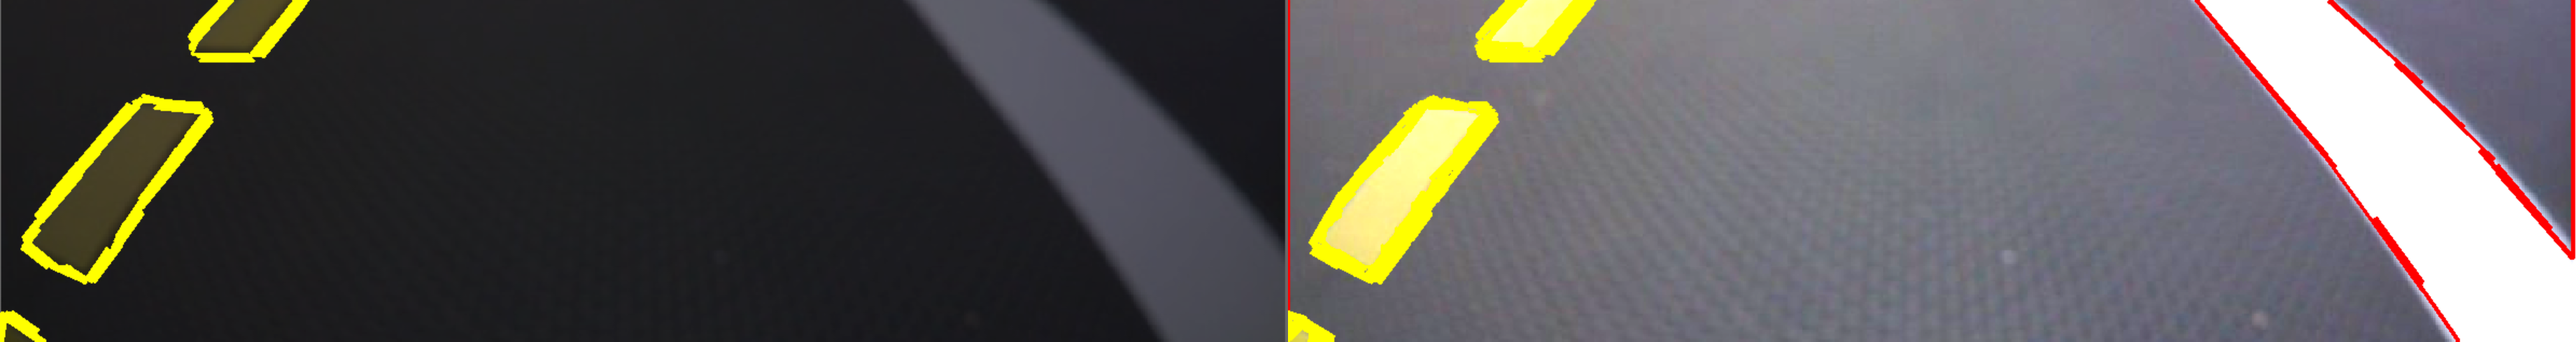
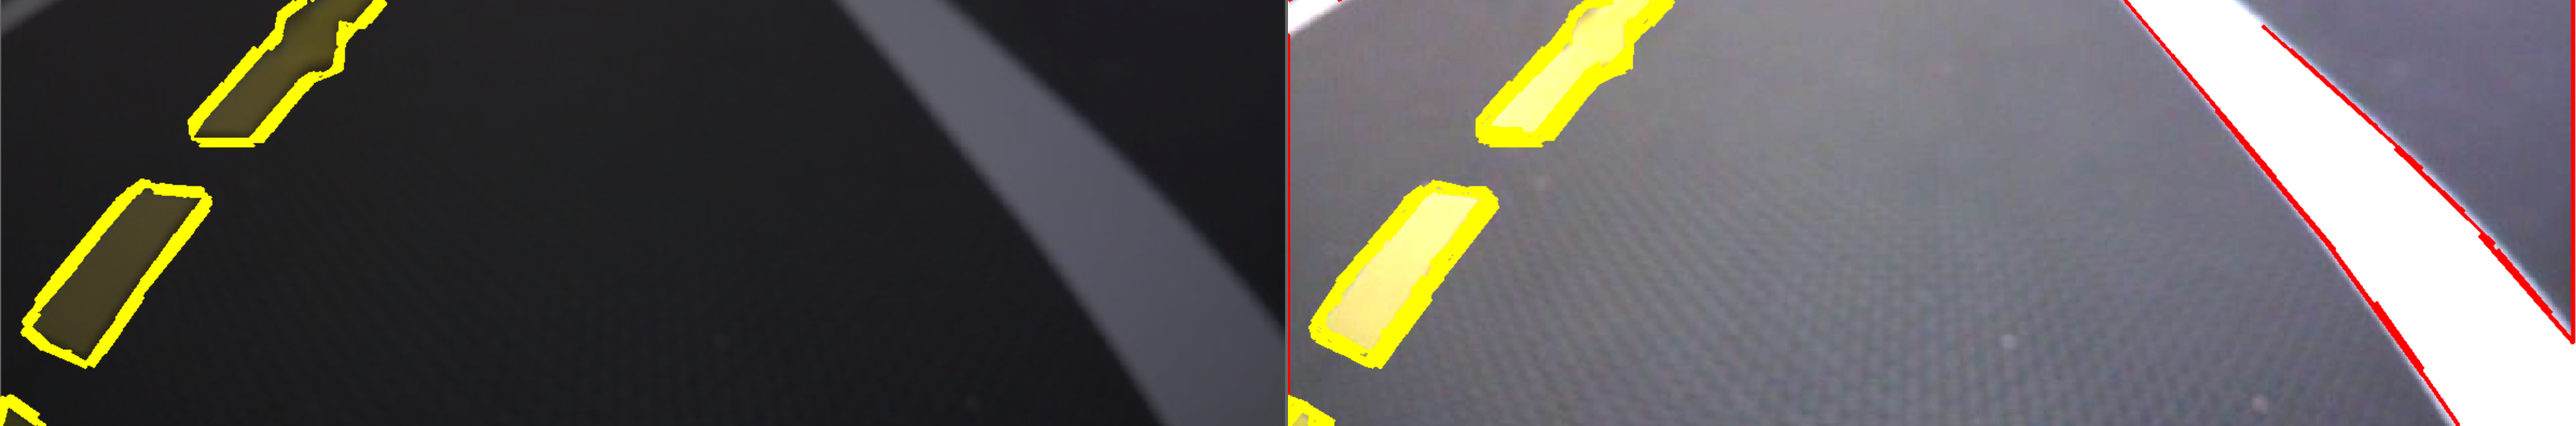
initial commit

diff --git a/packages/my_lane_detector/src/lane_image_dark.py b/packages/my_lane_detector/src/lane_image_dark.py
@@ -4,9 +4,7 @@ import numpy as np
 def detect_lanes(image_path):
     frame = cv.imread(image_path)
     height, width, _ = frame.shape
-    # Removed the cropping line and kept the full image
-    # cropped = frame[int(height / 5):, :]  # No cropping now
-
+    # No cropping here, use the full image
     hsv = cv.cvtColor(frame, cv.COLOR_BGR2HSV)
     
     # White mask
@@ -32,7 +30,7 @@ def detect_lanes(image_path):
     yellow_lines = cv.HoughLinesP(yellow_edges, 1, np.pi / 360, 10, minLineLength=10, maxLineGap=10)
 
     # Draw lines
-    output = frame.copy()  # No cropping here
+    output = frame.copy()  # Use the full image
     if white_lines is not None:
         for l in white_lines:
             x1, y1, x2, y2 = l[0]
@@ -48,17 +46,15 @@ def detect_lanes(image_path):
 output_dark = detect_lanes('/data/lane_dark.png')
 output_bright = detect_lanes('/data/lane_bright.png')
 
-# Make output bigger (lengthwise)
-scale = 1.5  # Try 2.0 if you want it even wider
+# Make output a little less wide (adjusted scale)
+scale = 1  # Changed from 1.5 to 1.2 for a less wide image
 output_dark_resized = cv.resize(output_dark, None, fx=scale, fy=scale, interpolation=cv.INTER_LINEAR)
 output_bright_resized = cv.resize(output_bright, None, fx=scale, fy=scale, interpolation=cv.INTER_LINEAR)
 
-# Combine side-by-side
-combined = cv.hconcat([output_dark_resized, output_bright_resized])
+# Show each image separately
+cv.imshow("Lane Detection - Dark", output_dark_resized)
+cv.imshow("Lane Detection - Bright", output_bright_resized)
 
-# Show and save
-cv.imshow("Lane Detection - Dark vs Bright (Wider View)", combined)
-cv.imwrite("lane_comparison_wide.png", combined)
 cv.waitKey(0)
 cv.destroyAllWindows()
 
